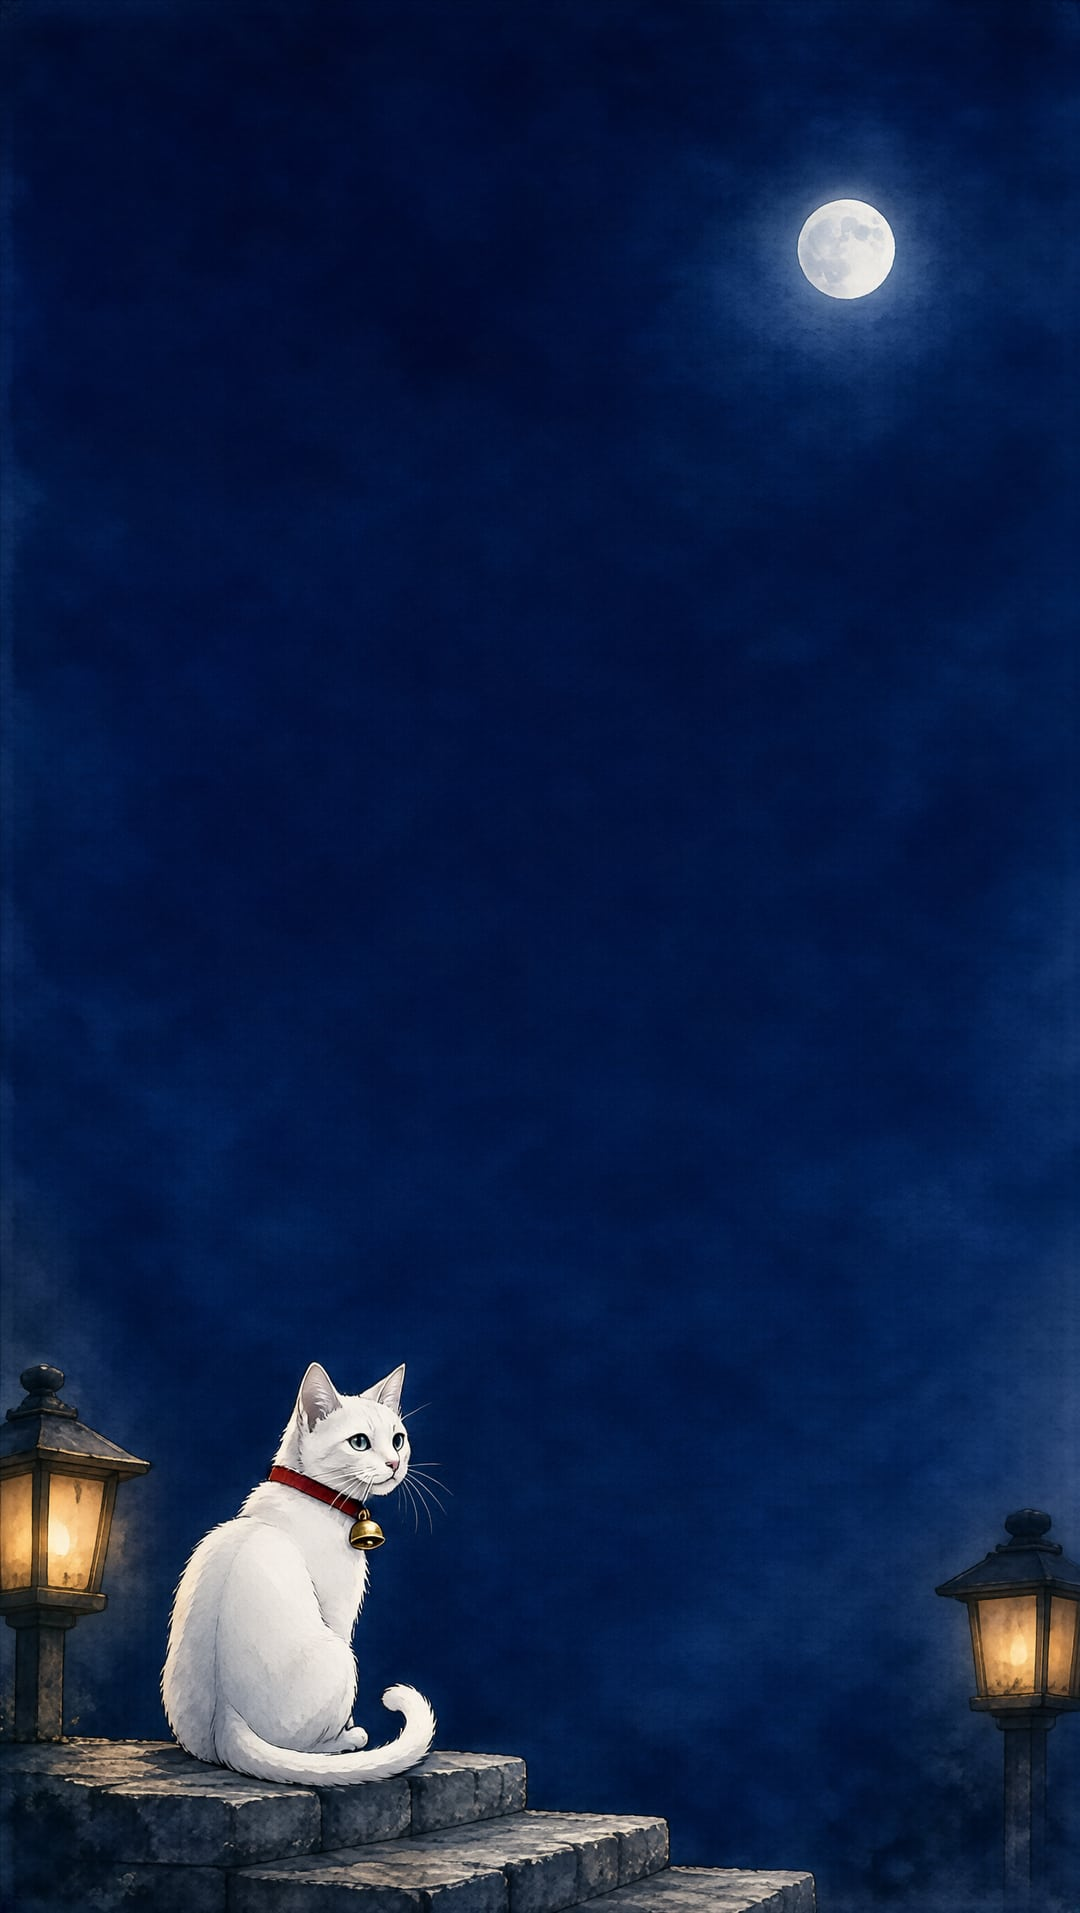
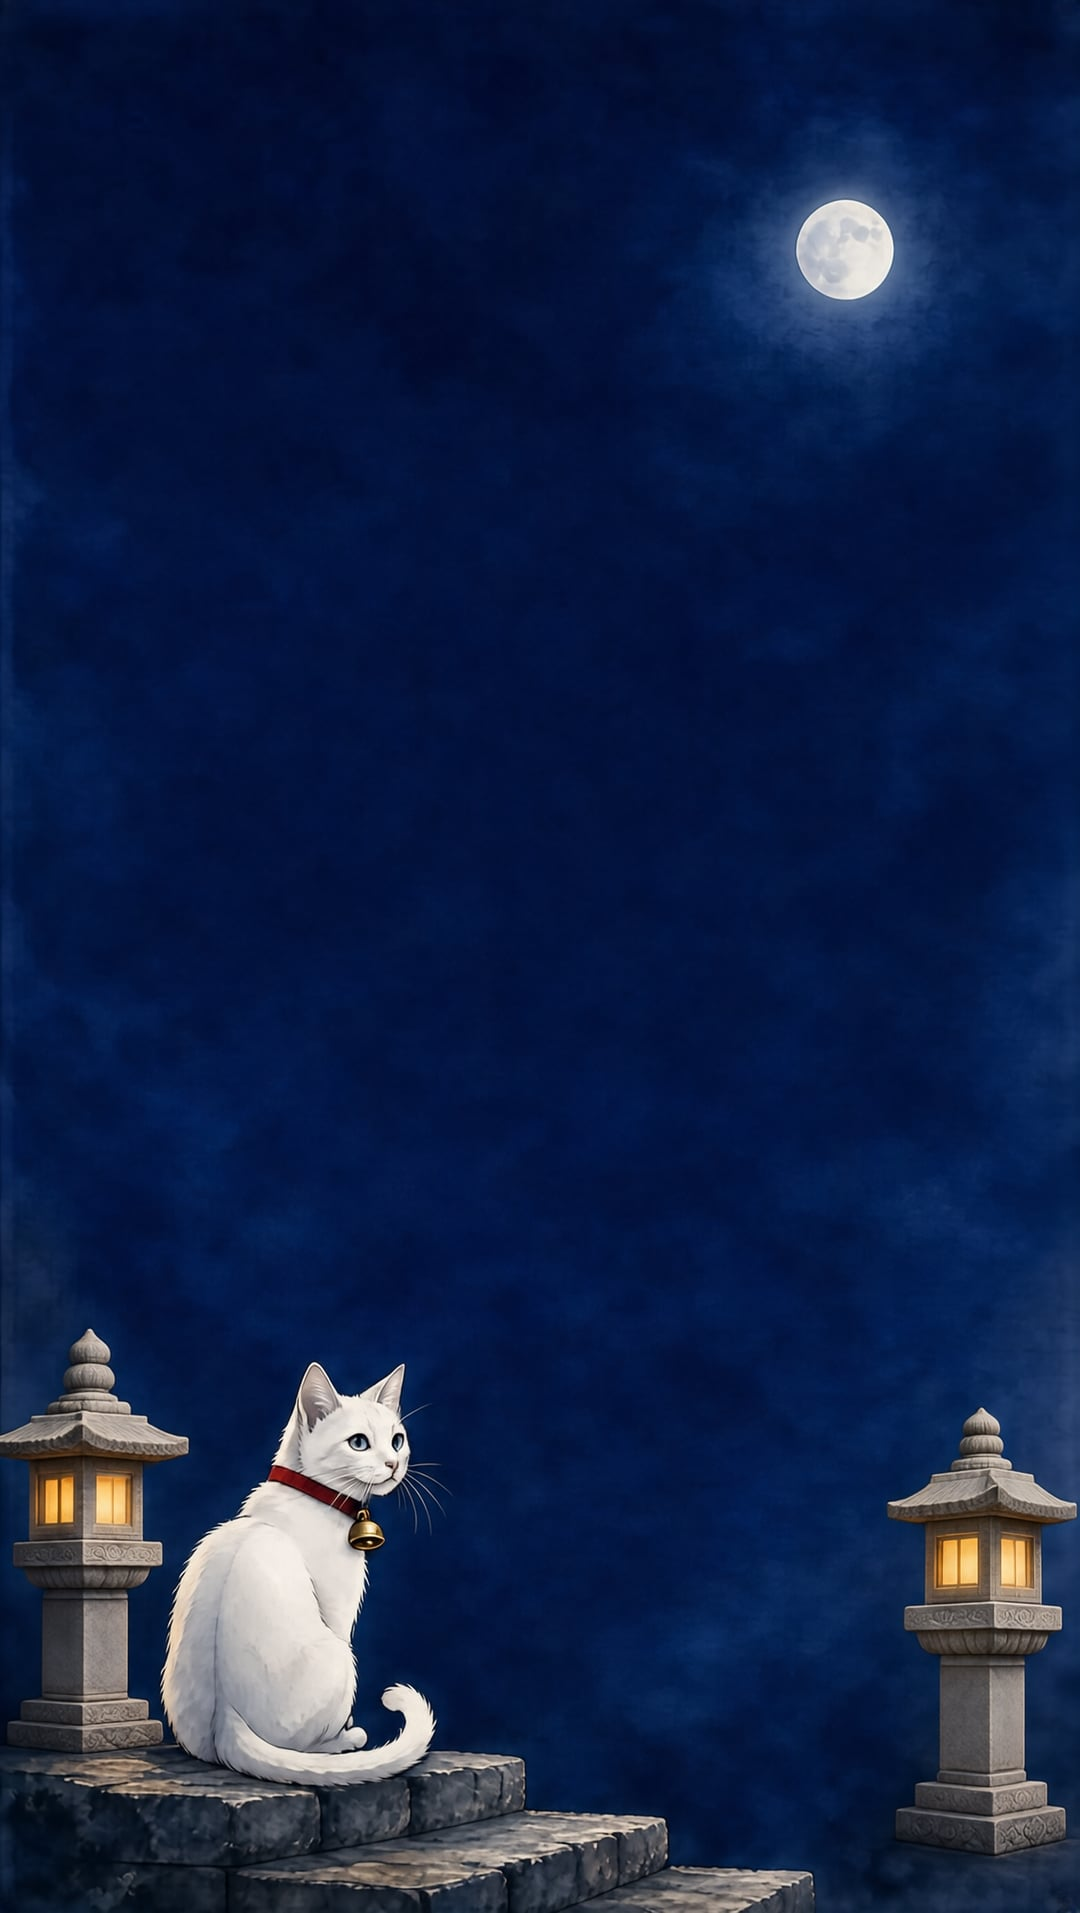
标题屏: 欧式立柱灯替换为中式石灯笼(编辑模式保留白猫/石阶/月夜构图),版本251025n

diff --git a/galgame/js/engine.js b/galgame/js/engine.js
@@ -49,7 +49,7 @@
       $("#sprites").appendChild(el);
     }
     if (who === "catgirl") el.innerHTML = ART.catGirl(expr || "normal");
-    else el.innerHTML = '<img class="chara-img" src="images/cat_mascot.webp?v=251025m" alt="唐猫（白猫）" draggable="false">';
+    else el.innerHTML = '<img class="chara-img" src="images/cat_mascot.webp?v=251025n" alt="唐猫（白猫）" draggable="false">';
     el.style.width = "clamp(220px, 60vmin, 400px)";
     requestAnimationFrame(() => { el.className = "sprite pos-" + (pos || "center") + " breathe"; });
   }
@@ -491,8 +491,8 @@
   };
   function galGrid(items) {
     return '<div class="gal-grid">' + items.map(g =>
-      '<figure class="gal-item" data-src="' + g.src + '?v=251025m" data-cap="' + g.cap + '">' +
-      '<img src="' + g.src + '?v=251025m" alt="" loading="lazy"><figcaption>' + g.cap + '</figcaption></figure>'
+      '<figure class="gal-item" data-src="' + g.src + '?v=251025n" data-cap="' + g.cap + '">' +
+      '<img src="' + g.src + '?v=251025n" alt="" loading="lazy"><figcaption>' + g.cap + '</figcaption></figure>'
     ).join("") + '</div>';
   }
   function showGallery() {
@@ -602,7 +602,7 @@
 
   /* ---------- 启动 ---------- */
   function boot() {
-    window.__GALGAME_VER = "251025m";
+    window.__GALGAME_VER = "251025n";
     $("#title-bg").innerHTML = ART.titleBg();
     bind();
     refreshTitle();

diff --git a/galgame/index.html b/galgame/index.html
@@ -5,7 +5,7 @@
 <meta name="viewport" content="width=device-width, initial-scale=1.0, viewport-fit=cover">
 <title>唐猫庭院 · 千年陕菜谭</title>
 <meta name="description" content="唐猫庭院 galgame —— 一段发生在千年陕菜庭院里的小小奇遇。为唐猫庭院餐厅与其点餐推荐系统而作的宣传视觉小说。">
-<link rel="stylesheet" href="style.css?v=251025m">
+<link rel="stylesheet" href="style.css?v=251025n">
 </head>
 <body>
 <div id="app">
@@ -68,15 +68,15 @@
   </div>
 </div>
 
-<script src="js/art.js?v=251025m"></script>
-<script src="js/audio.js?v=251025m"></script>
-<script src="js/story.js?v=251025m"></script>
-<script src="js/engine.js?v=251025m"></script>
+<script src="js/art.js?v=251025n"></script>
+<script src="js/audio.js?v=251025n"></script>
+<script src="js/story.js?v=251025n"></script>
+<script src="js/engine.js?v=251025n"></script>
 <script>
 /* 缓存自愈：若检测到旧版 engine（无版本标记）在跑，绕过缓存自动强刷一次（sessionStorage 防循环） */
 (function () {
   setTimeout(function () {
-    if (window.__GALGAME_VER === "251025m") return;
+    if (window.__GALGAME_VER === "251025n") return;
     try {
       if (sessionStorage.getItem("_gv_healed")) return;
       sessionStorage.setItem("_gv_healed", "1");

diff --git a/galgame/js/art.js b/galgame/js/art.js
@@ -91,7 +91,7 @@ const ART = (() => {
   };
   function catGirl(exprKey) {
     const img = CHARA_MAP[exprKey] || "smile";
-    return '<img class="chara-img" src="images/chara_' + img + '.webp?v=251025m" alt="唐猫" draggable="false">';
+    return '<img class="chara-img" src="images/chara_' + img + '.webp?v=251025n" alt="唐猫" draggable="false">';
   }
   /* 预加载全部差分，避免表情切换时闪白 */
   ["smile","normal","happy","excited","wink","shy","surprised","soft","sleepy","serious","smug","pout","sad","worried","cry"].forEach(n => {
@@ -189,7 +189,7 @@ const ART = (() => {
   /* ================= 场景背景（AI 厚涂竖版图包装为 svg，900x1600 与 9:16 生成图精确匹配） ================= */
   function photoBg(src, extra) {
     return '<svg viewBox="0 0 900 1600" preserveAspectRatio="xMidYMid slice" xmlns="http://www.w3.org/2000/svg">' +
-      '<image href="images/' + src + '?v=251025m" width="900" height="1600"/>' + (extra || "") +
+      '<image href="images/' + src + '?v=251025n" width="900" height="1600"/>' + (extra || "") +
       '</svg>';
   }
 

diff --git a/galgame/js/story.js b/galgame/js/story.js
@@ -134,7 +134,7 @@ function profileHtml(spice) {
 function promoHtml() {
   return (
     '<div style="display:flex;gap:12px;align-items:center;margin:2px 0 10px">' +
-    '<img src="images/chara_smile.webp?v=251025m" alt="唐猫" style="width:74px;height:74px;object-fit:cover;object-position:top;border-radius:50%;border:2px solid rgba(217,178,106,.5);flex:none">' +
+    '<img src="images/chara_smile.webp?v=251025n" alt="唐猫" style="width:74px;height:74px;object-fit:cover;object-position:top;border-radius:50%;border:2px solid rgba(217,178,106,.5);flex:none">' +
     '<div style="flex:1;background:rgba(217,178,106,.10);border:1px solid rgba(217,178,106,.35);border-radius:12px;padding:10px 12px;line-height:1.7">「客人要走了吗……走之前，本喵再啰嗦几句。这家店你逛了一晚上，但有几件事，得本喵亲口说才算数。」</div>' +
     '</div>' +
     '<h3>🏮 这家店</h3>' +
